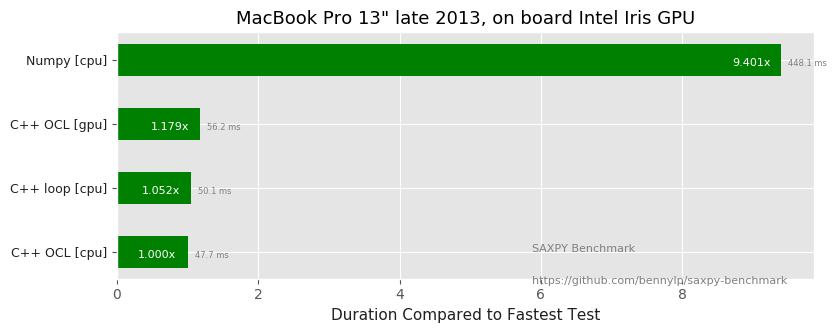
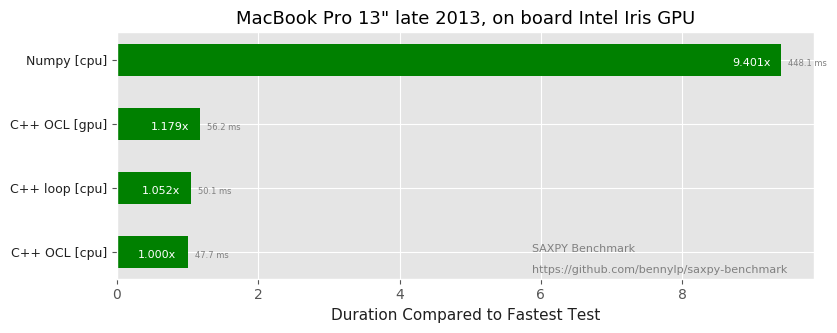
Tweak graphic generation

Changed region(s): [[0.6213, 0.7808, 0.9319, 0.8709]]

diff --git a/results/create_charts.py b/results/create_charts.py
@@ -95,9 +95,9 @@ def create_chart(spec, output_md, use_rel=True):
         ax.text(max(0, v - 0.7), y_pos[i] + 0.03, '%.3fx' % v, fontdict={'size': 8}, color='w')
         ax.text(v + 0.1, y_pos[i] + 0.03, '%.1f ms' % m[i], fontdict={'size': 6}, color='grey')
 
-    ax.text(y[0] * 5 / 8, y_pos[-1] + 0.15 - 0.15, 'SAXPY Benchmark',
+    ax.text(y[0] * 5 / 8, y_pos[-1], 'SAXPY Benchmark',
             fontdict={'size': 8}, color='grey')
-    ax.text(y[0] * 5 / 8, y_pos[-1] + 0.15 , 'https://github.com/bennylp/saxpy-benchmark',
+    ax.text(y[0] * 5 / 8, y_pos[-1] + 0.1, 'https://github.com/bennylp/saxpy-benchmark',
             fontdict={'size': 8}, color='grey')
 
     ax.set_yticks(y_pos)

diff --git a/README.md b/README.md
@@ -17,7 +17,10 @@ This repository contains several implementations of SAXPY such as:
  - OpenCL (CPU and GPU) [[saxpy_ocl1.cpp](saxpy_ocl1.cpp)] 
  - PyOpenCL (CPU and GPU) [[saxpy_pyocl.py](saxpy_pyocl.py)]
 
-For the benchmark, we only measure the time to perform the actual loop and not other things 
+Unless noted differently, we use the best mean to do the job on each platform,
+e.g. vectorization on Numpy, R, and Octave.
+
+We only measure the time to perform the actual loop and not other things 
 such as initialization and data transfers between CPU and GPU, which most likely will exceed
 the loop time since our loop is very simple.
 

diff --git a/results/README.md b/results/README.md
@@ -11,17 +11,17 @@ When creating a CSV, please standardize the column names to the following, other
 the CSV will be rejected by `create_charts.py`. The names are standardized in case we want to do
 some statistics with them in the future:
 - PyOCL [gpu]
-- C++ CUDA [cpu]
-- PyOCL [cpu]
-- C++ OCL [gpu]
-- R [cpu]
-- Octave [cpu]
 - Numpy [cpu]
-- C++ OCL [cpu]
-- Python loop [cpu]
-- C++ loop [cpu]
+- PyOCL [cpu]
 - TensorFlow [cpu]
+- R [cpu]
 - TensorFlow [gpu]
+- Python loop [cpu]
+- C++ OCL [gpu]
+- Octave [cpu]
+- C++ CUDA [cpu]
+- C++ OCL [cpu]
+- C++ loop [cpu]
 
 
 
